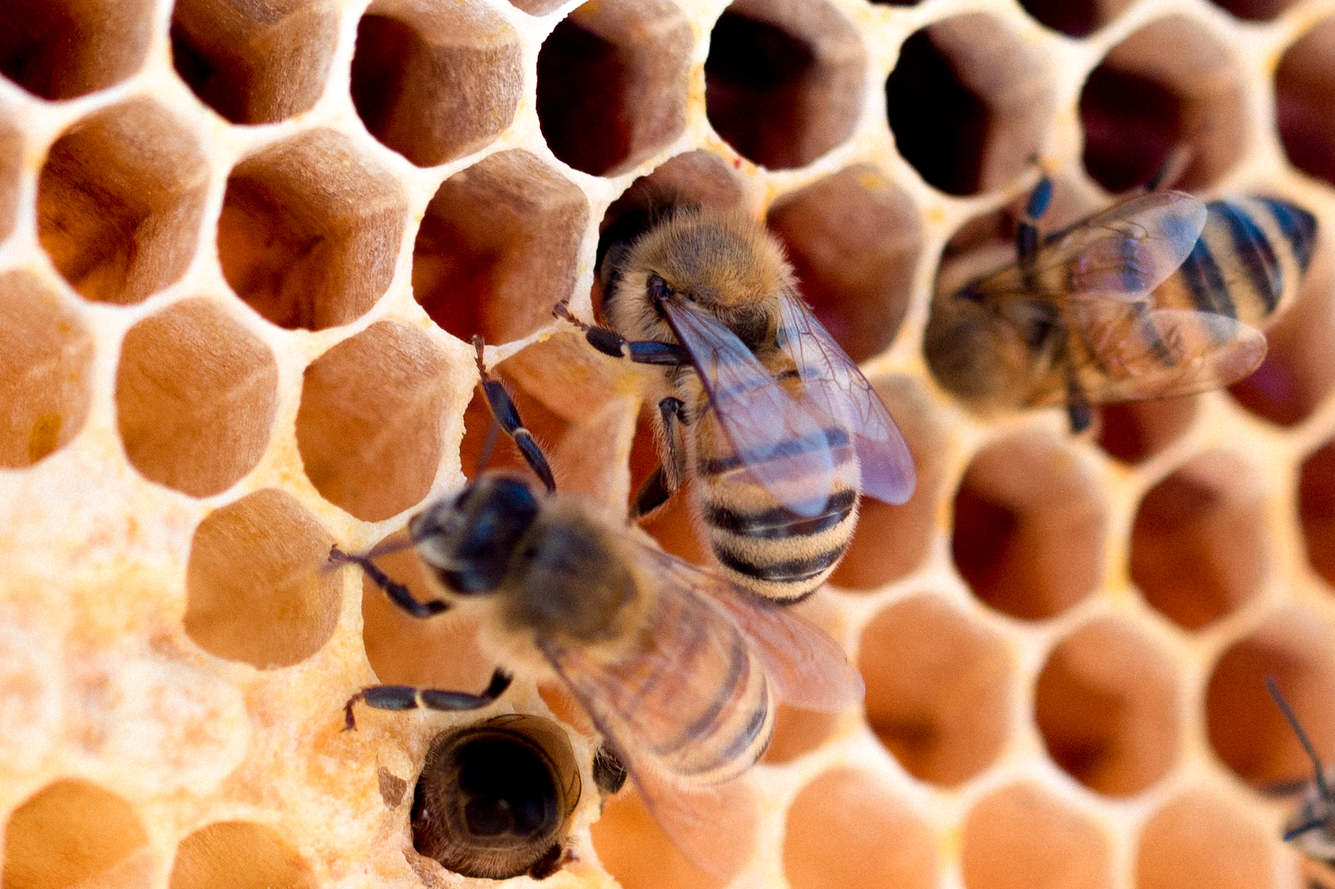
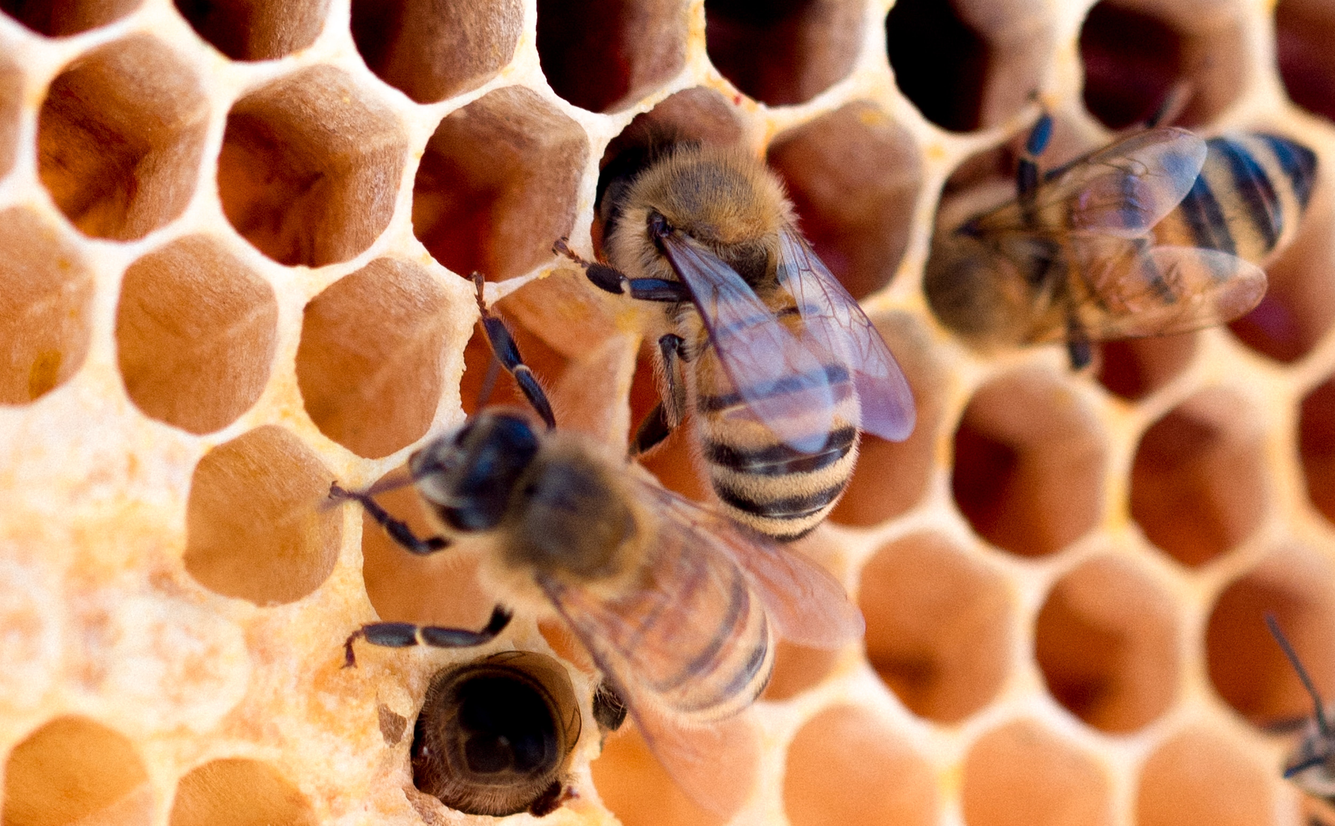
improved images and made the fit

diff --git a/app/assets/stylesheets/pages/_home.scss b/app/assets/stylesheets/pages/_home.scss
@@ -9,9 +9,9 @@
     margin-left: 90px;
   }
   #honey {
-    background: image-url('jar.jpg');
+    background: image-url('3bees.jpg');
     background-size: cover;
-    height: 700px;
+    height: 650px;
   }
   #about {
     background: image-url('plate2.png');
